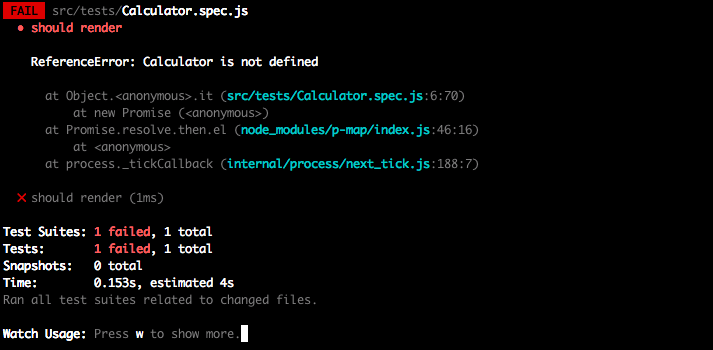
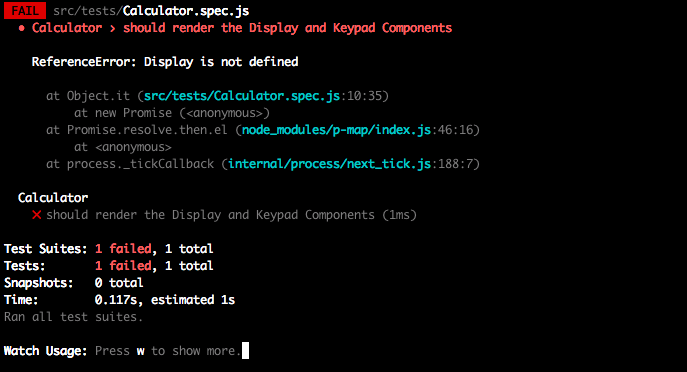
worked on adding tests and updated post.md

diff --git a/src/components/Calculator/Calculator.spec.js b/src/components/Calculator/Calculator.spec.js
@@ -1,0 +1,37 @@
+// import React from 'react';
+// import {shallow} from 'enzyme';
+// import Calculator from './Calculator';
+// import Display from '../Display/Display';
+// import Keypad from '../Keypad/Keypad';
+
+// describe('Calculator', () => {
+//   it('should render a <div />', () => {
+//     const wrapper = shallow(<Calculator />);
+//     expect(wrapper.find('div').length).toEqual(1);
+//   });
+
+//   it('should render the Display and Keypad Components', () => {
+//     const wrapper = shallow(<Calculator />);
+//     expect(wrapper.containsAllMatchingElements([
+//       <Display />,
+//       <Keypad />
+//     ])).toEqual(true);
+//   });
+// });
+
+import React from 'react';
+import {shallow} from 'enzyme';
+import Calculator from './Calculator';
+import Display from '../Display/Display'
+
+describe('Calculator', () => {
+  it('should render a <div />', () => {
+    const wrapper = shallow(<Calculator />);
+    expect(wrapper.find('div').length).toEqual(1);
+  });
+  
+  it('should render the Display component', () => {
+    const wrapper = shallow(<Calculator />);
+    expect(wrapper.containsMatchingElement(<Display />)).toEqual(true);
+  });
+});

diff --git a/src/components/Display/Display.spec.js b/src/components/Display/Display.spec.js
@@ -1,0 +1,28 @@
+import React from 'react';
+import {mount, shallow} from 'enzyme';
+import Display from './Display';
+
+describe('Display', () => {
+  it('should render a <div />', () => {
+    const wrapper = shallow(<Display />);
+    expect(wrapper.find('div').length).toEqual(1);
+  });
+
+  it('has default prop displayValue', () => {
+    const wrapper = mount(<Display />);
+    expect(wrapper.props().displayValue).toEqual('default');
+  });
+
+  it('has settable prop displayValue', () => {
+    const wrapper = mount(<Display />);
+    wrapper.setProps({displayValue: 'new value'});
+    expect(wrapper.prop('displayValue')).toEqual('new value');
+  });
+
+  it('renders the value of displayValue to the DOM', () => {
+    const wrapper = mount(<Display />);
+    expect(wrapper.text()).toEqual('default');
+    wrapper.setProps({displayValue: 'new value'});
+    expect(wrapper.text()).toEqual('new value');
+  });
+});

diff --git a/src/components/Key/Key.spec.js b/src/components/Key/Key.spec.js
@@ -1,0 +1,20 @@
+import React from 'react';
+import {shallow, mount} from 'enzyme';
+import Key from './Key';
+
+describe('Key', () => {
+  it('should render a <div />', () => {
+    const wrapper = shallow(<Key />);
+    expect(wrapper.find('div').length).toEqual(1);
+  });
+
+  it('should set props keyType and keyValue', () => {
+    const wrapper = mount(<Key keyType="testType" keyValue="testValue" />);
+    expect(wrapper.prop('keyType')).toEqual('testType');
+    expect(wrapper.prop('keyValue')).toEqual('testValue');
+    wrapper.setProps({keyType: 'newType'});
+    expect(wrapper.prop('keyType')).toEqual('newType');
+    wrapper.setProps({keyValue: 'newValue'});
+    expect(wrapper.prop('keyValue')).toEqual('newValue');
+  });
+});

diff --git a/src/components/Keypad/Keypad.spec.js b/src/components/Keypad/Keypad.spec.js
@@ -1,0 +1,18 @@
+import React from 'react';
+import {shallow} from 'enzyme';
+import Keypad from './Keypad';
+import Key from '../Key/Key';
+
+describe('Keypad', () => {
+  it('should render a <div />', () => {
+    const wrapper = shallow(<Keypad />);
+    expect(wrapper.find('div').length).toEqual(1);
+  });
+
+  it('should render the Key component', () => {
+  const wrapper = shallow(<Keypad />);
+  expect(wrapper.containsAllMatchingElements([
+      <Key />
+    ])).toEqual(true);
+  });
+});

diff --git a/src/components/Display/Display.jsx b/src/components/Display/Display.jsx
@@ -1,10 +1,17 @@
 import React from 'react';
+import PropTypes from 'prop-types';
 
-const Display = () => {
+const Display = ({displayValue}) => {
   return (
     <div className="display-container">
+      <p className="display-value">
+        {displayValue}
+      </p>
     </div>
-  );
-}
+)};
+
+Display.propTypes = {displayValue: PropTypes.string.isRequired};
+
+Display.defaultProps = {displayValue: 'default'};
 
 export default Display;

diff --git a/src/components/Key/Key.jsx b/src/components/Key/Key.jsx
@@ -1,10 +1,5 @@
 import React from 'react';
 
-const Key = () => {
-  return (
-    <div className="key-container">
-    </div>
-  );
-}
+const Key = () => <div className="key-container" />;
 
 export default Key;

diff --git a/src/components/Keypad/Keypad.jsx b/src/components/Keypad/Keypad.jsx
@@ -1,8 +1,10 @@
 import React from 'react';
+import Key from '../Key/Key';
 
 const Keypad = () => {
   return (
     <div className="keypad-container">
+      <Key />
     </div>
   );
 }

diff --git a/post/old_post.md b/post/old_post.md
@@ -19,18 +19,18 @@ This is the main UI stateful component for our application, it renders the `Disp
 
 ### Display Component
 
+stateless
 [Display image]
-stateless, receives prop displayValue
 
 ### Keypad Component
 
+stateless
 [Keypad image]
-stateless, receives props [callOperator, handleKeyPress, numbers, operators, setOperator, updateDisplay]
 
 ### Key Component
 
+stateless
 [Key image]
-stateless, receives props [handleKeyPress, keyAction, keyType, keyValue]
 
 ## Project Setup
 
@@ -123,44 +123,42 @@ SUCCESS!
 
 then add the next test:
 
+
+######## change to display should render, do display stuff (go ahaed and do props stuff in display too), then refactor to display and keypad, do keypad stuff ######
+
 ```js
 import React from 'react';
 import {shallow} from 'enzyme';
-import Calculator from './Calculator';
-import Display from '../Display/Display'
+import Calculator from '../components/Calculator/Calculator';
 
 describe('Calculator', () => {
-  it('should render a <div />', () => {
+  it('should render the Display and Keypad Components', () => {
     const wrapper = shallow(<Calculator />);
-    expect(wrapper.find('div').length).toEqual(1);
-  });
-  
-  it('should render the Display component', () => {
-    const wrapper = shallow(<Calculator />);
-    expect(wrapper.containsMatchingElement(<Display />)).toEqual(true);
+    expect(wrapper.containsAllMatchingElements([
+      <Display />,
+      <Keypad />
+    ])).to.equal(true);
   });
 });
 ```
 
 Failurez!
 
-### Create Display Test File and Initial Component
+### Create Display and Keypad Components
 
-Before we write the `Display` component, let's add our `Display` test file and setup a shallow render test like we did with the `Calculator` component.
-
-From the command line create *Display.spec.js*:
+Create Display test file:
 
 `$ touch src/components/Display/Display.spec.js`
 
-Write our shallow render test in *Display.spec.jsx*:
+In *Display.spec.jsx*:
 
 ```js
 import React from 'react';
-import {shallow} from 'enzyme';
+import {mount, shallow} from 'enzyme';
 import Display from './Display';
 
 describe('Display', () => {
-  it('should render a <div />', () => {
+  it('renders a <div />', () => {
     const wrapper = shallow(<Display />);
     expect(wrapper.find('div').length).toEqual(1);
   });
@@ -179,98 +177,8 @@ const Display = () => <div className="display-container" />;
 export default Display;
 ```
 
-Both test suites pass!
+display.spec.js passes, calculator.spec.js fails
 
-### Continue Writing `Display` Component Tests and Building Out Component
-
-#### Display has default prop `displayValue`
-
-in *Display.spec.js*:
-
-```jsx
-import React from 'react';
-import {mount, shallow} from 'enzyme';
-import Display from './Display';
-
-describe('Display', () => {
-  it('should render a <div />', () => {
-    const wrapper = shallow(<Display />);
-    expect(wrapper.find('div').length).toEqual(1);
-  });
-
-  it('has default prop displayValue', () => {
-    const wrapper = mount(<Display />);
-    expect(wrapper.props().displayValue).toEqual('default');
-  });
-
-  it('has settable prop displayValue', () => {
-    const wrapper = mount(<Display />);
-    wrapper.setProps({displayValue: 'new value'});
-    expect(wrapper.prop('displayValue')).toEqual('new value');
-  });
-});
-```
-
-New Test failz...
-
-> diff between shallow and mount...
-
-Refactor *Display.jsx* and add propTypes, defaultProps:
-
-```jsx
-import React from 'react';
-import PropTypes from 'prop-types';
-
-const Display = ({displayValue}) => <div className="display-container" />;
-
-Display.propTypes = {displayValue: PropTypes.string.isRequired};
-
-Display.defaultProps = {displayValue: 'default'};
-
-export default Display;
-```
-
-Passes!
-
-#### Renders `displayValue` to the DOM
-
-```js
-import React from 'react';
-import {mount, shallow} from 'enzyme';
-import Display from './Display';
-
-describe('Display', () => {
-  ...
-
-  it('renders the value of displayValue to the DOM', () => {
-    const wrapper = mount(<Display />);
-    expect(wrapper.text()).toEqual('default');
-    wrapper.setProps({displayValue: 'new value'});
-    expect(wrapper.text()).toEqual('new value');
-  });
-});
-```
-
-Fail...
-
-Refactor *Display.jsx*:
-
-```jsx
-...
-const Display = ({displayValue}) => {
-  return (
-    <div className="display-container">
-      <p className="display-value">
-        {displayValue}
-      </p>
-    </div>
-)};
-...
-```
-
-Pass!
-
-########### Start here #######################
 `$ touch src/components/Keypad/Keypad.spec.js`
 
 In *Keypad.spec.js*:
@@ -417,7 +325,43 @@ export default Keypad;
 
 ### Test Display Component
 
+Display has prop `displayValue`:
 
+in *Display.spec.js:
+
+```jsx
+import React from 'react';
+import {mount} from 'enzyme';
+import Display from './Display';
+
+describe('Display', () => {
+  it('should set prop displayValue', () => {
+    const wrapper = mount(<Display displayValue="testDisplay" />);
+    expect(wrapper.prop('displayValue')).toEqual('testDisplay');
+    wrapper.setProps({displayValue: 'newDisplay'});
+    expect(wrapper.prop('displayValue')).toEqual('newDisplay');
+  });
+});
+```
+
+Test failz...
+
+> diff between shallow and mount...
+
+Refactor *Display.jsx* and add propTypes, defaultProps:
+
+```jsx
+import React from 'react';
+import PropTypes from 'prop-types';
+
+const Display = ({displayValue}) => <div className="display-container" />;
+
+Display.propTypes = {displayValue: PropTypes.string.isRequired};
+
+Display.defaultProps = {displayValue: '0'};
+
+export default Display;
+```
 
 
 ### Test Key Component
